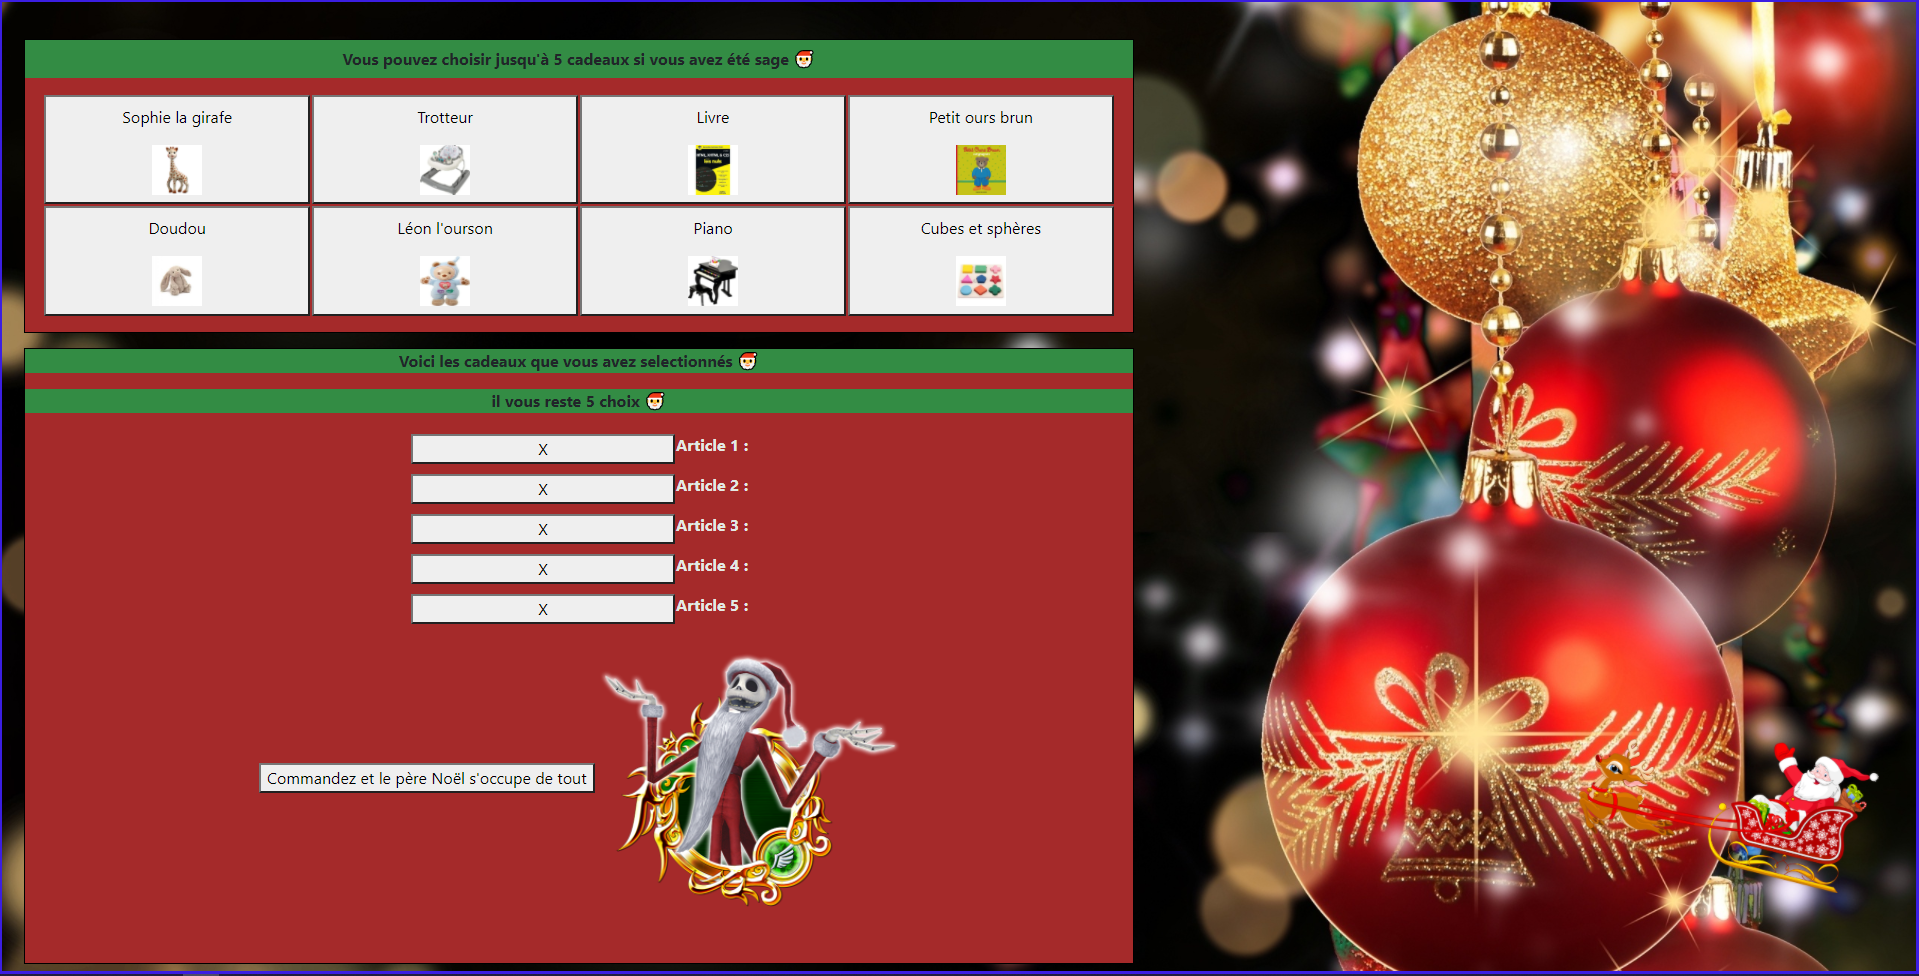
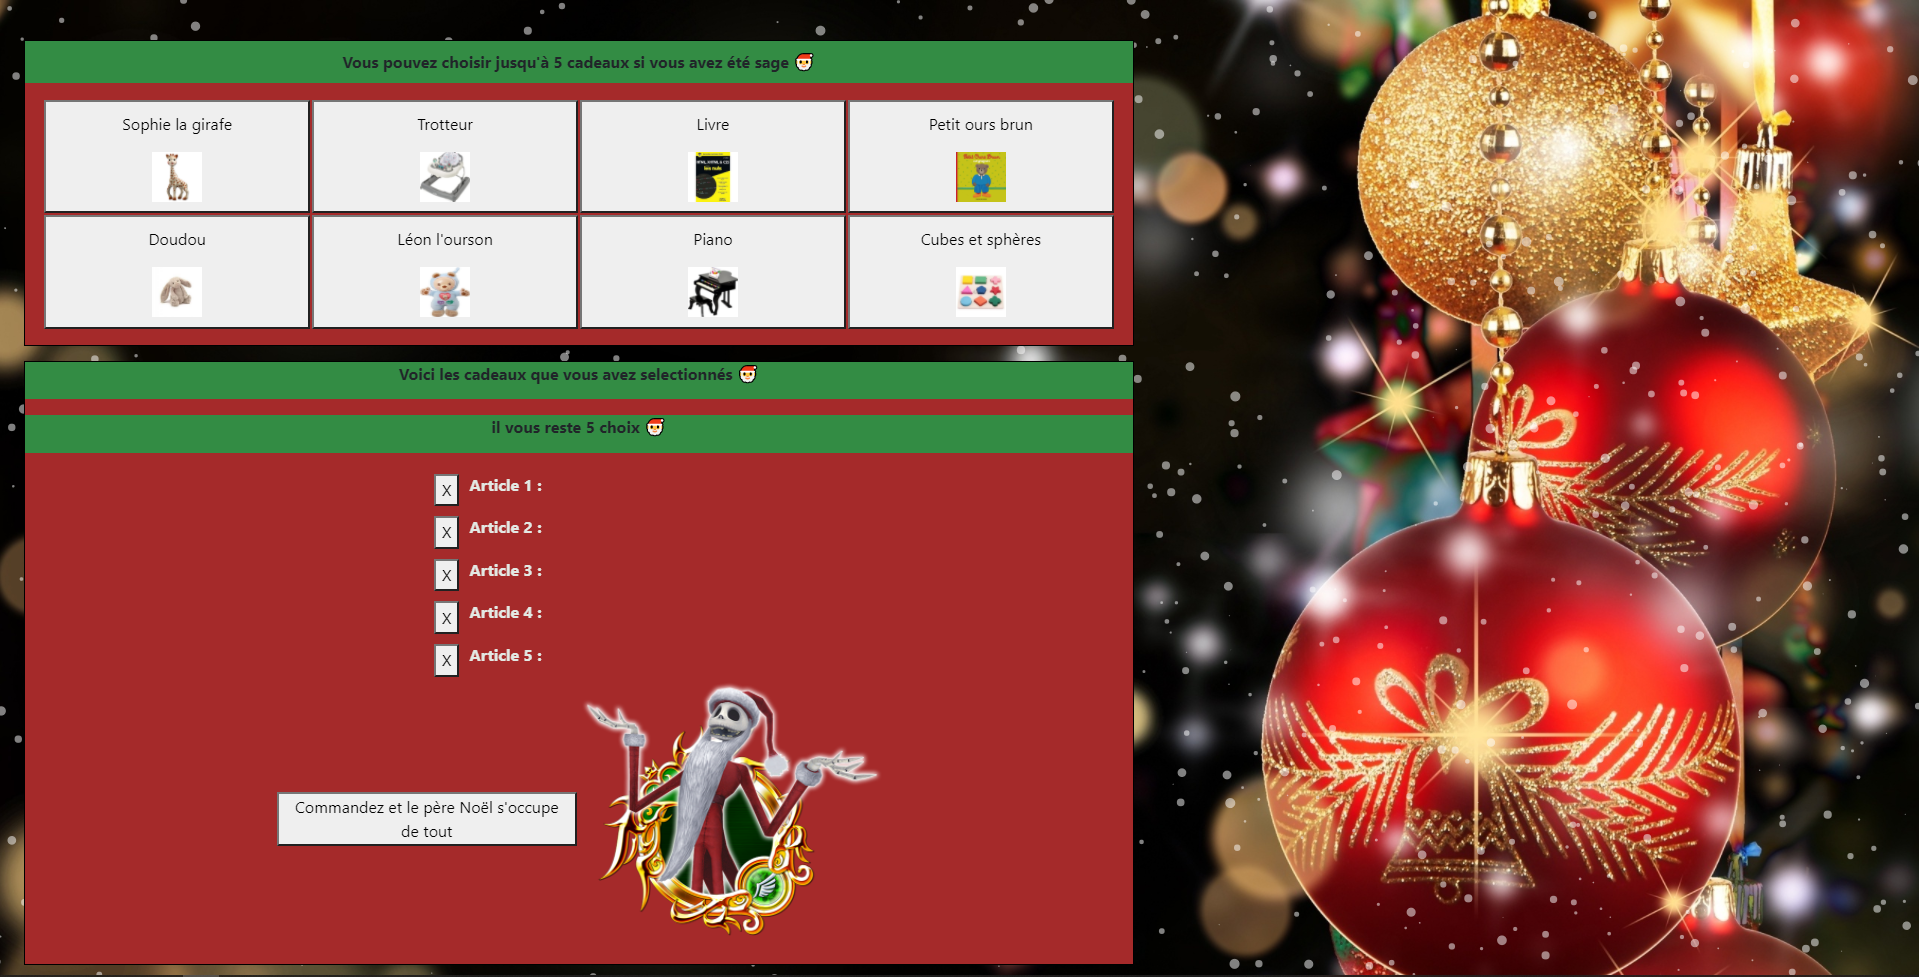
Changement jouet

diff --git a/projet/Exo_liste_de_Fiorella/index.html b/projet/Exo_liste_de_Fiorella/index.html
@@ -39,46 +39,46 @@ BONUS. Afficher une phrase "Fiorella a choisi 2 cadeaux. Il en reste 3."
             <div class="  magasine">
                 <p class="container">Vous pouvez choisir jusqu'à 5 cadeaux si vous avez été sage 🎅</p>
             
-                <button class="girafe">
-                    <p>Sophie la girafe</p>
-                    <img src="img/girafe.jpg" alt="">
+                <button class="Elsa">
+                    <p>Elsa + Olaf</p>
+                    <img src="img/Elsa.jpg" alt="">
                 </button>
 
-                <button class="trotteur">
-                    <p>Trotteur</p>
-                    <img src="img/trotteur.jpg" alt="">
+                <button class="Draco">
+                    <p>Peluche Draco</p>
+                    <img src="img//Draco.jpg" alt="">
                 </button>
 
-                <button class="livrecss">
-                    <p>Livre</p>
-                    <img src="img/livrecss.jpg" alt="">
+                <button class="Drone">
+                    <p>Drone</p>
+                    <img src="img/Drone.jfif" alt="">
                 </button>
 
-                <button class="ours">
-                    <p>Petit ours brun</p>
-                    <img src="img/ours.jpg" alt="">
+                <button class="FirstPC">
+                    <p>My FirstPC</p>
+                    <img src="img/FirstPC.jpg" alt="">
                 </button>
 
                 <br>
 
-                <button class="doudou">
-                    <p>Doudou</p>
-                    <img src="img/doudou.jfif" alt="">
+                <button class="DollHouse">
+                    <p>My DollHouse</p>
+                    <img src="img/DollHouse.jpg" alt="">
                 </button>
 
-                <button class="leon">
-                    <p>Léon l'ourson</p>
-                    <img src="img/leon.jpg" alt="">
+                <button class="Monster">
+                    <p>Monster High</p>
+                    <img src="img/Monster.jpg" alt="">
                 </button>
 
-                <button class="piano">
-                    <p>Piano</p>
-                    <img src="img/piano.jpg" alt="">
+                <button class="Miraculous">
+                    <p>Costume Miraculous Ladybug</p>
+                    <img src="img/Miraculous.jpg" alt="">
                 </button>
 
-                <button class="form">
-                    <p>Cubes et sphères</p>
-                    <img src="img/forme.jpg" alt="">
+                <button class="Societe">
+                    <p>Jeu de société</p>
+                    <img src="img/Societe.jpg" alt="">
                 </button>
             </div>
 

diff --git a/projet/Exo_liste_de_Fiorella/script.js b/projet/Exo_liste_de_Fiorella/script.js
@@ -1,47 +1,47 @@
 
 
-var girafe ='Sophie la girafe'
-var trotteur ='trotteur'
-var livrecss ='livrecss'
-var ours ='Petit ours brun'
-var doudou ='doudou'
-var leon ='Léon l\'ourson'
-var piano ='piano'
-var form ='cubes et sphéres'
+var Elsa ='Elsa + Olaf'
+var Draco ='Peluche Draco'
+var Drone ='Drone'
+var FirstPC ='My FirstPC'
+var DollHouse ='My DollHouse'
+var Monster ='Monster High'
+var Miraculous ='Costume Ladybug '
+var Societe ='Jeu de société'
 
 var i = 1;
 
 
-$('.girafe').click(function(){
-    $('.Article' +i ).text('Article  : ' + girafe)
+$('.Elsa').click(function(){
+    $('.Article' +i ).text('Article  : ' + Elsa)
        i++})
 
-$('.trotteur').click(function(){
-    $('.Article' +i).text('Article  : ' + trotteur)
+$('.Draco').click(function(){
+    $('.Article' +i).text('Article  : ' + Draco)
     i++})
 
-$('.livrecss').click(function(){
-    $('.Article'+i).text('Article  : ' + livrecss)
+$('.Drone').click(function(){
+    $('.Article'+i).text('Article  : ' + Drone)
     i++})
 
-$('.ours').click(function(){
-    $('.Article'+i).text('Article  : ' + ours)
+$('.FirstPC').click(function(){
+    $('.Article'+i).text('Article  : ' + FirstPC)
     i++})
 
-$('.doudou').click(function(){
-    $('.Article'+i).text('Article  : ' + doudou)
+$('.DollHouse').click(function(){
+    $('.Article'+i).text('Article  : ' + DollHouse)
     i++})
 
-$('.leon').click(function(){
-    $('.Article'+i).text('Article  : ' + leon)
+$('.Monster').click(function(){
+    $('.Article'+i).text('Article  : ' + Monster)
     i++})
 
-$('.piano').click(function(){
-    $('.Article'+i).text('Article  : ' + piano)
+$('.Miraculous').click(function(){
+    $('.Article'+i).text('Article  : ' + Miraculous)
     i++})
 
-$('.form').click(function(){
-    $('.Article'+i).text('Article  : ' + form)
+$('.Societe').click(function(){
+    $('.Article'+i).text('Article  : ' + Societe)
     i++})
 
 

diff --git a/projet/Exo_liste_de_Fiorella/style.css b/projet/Exo_liste_de_Fiorella/style.css
@@ -26,6 +26,12 @@ body{
   width: 100%;
 }
 
+.magasine > button > p{
+  font-weight: 700;
+  width: 100%;
+  border:3px solid black;
+  background-color:  #338c44;
+}
 
 .magasine{
     border: 1px solid black;
@@ -50,8 +56,9 @@ button{
 }
 
 img{
-  height: 50px;
-  width: 50px;}
+  height: 90px;
+  width: 90px;
+  border: 3px solid black}
 
 
 
